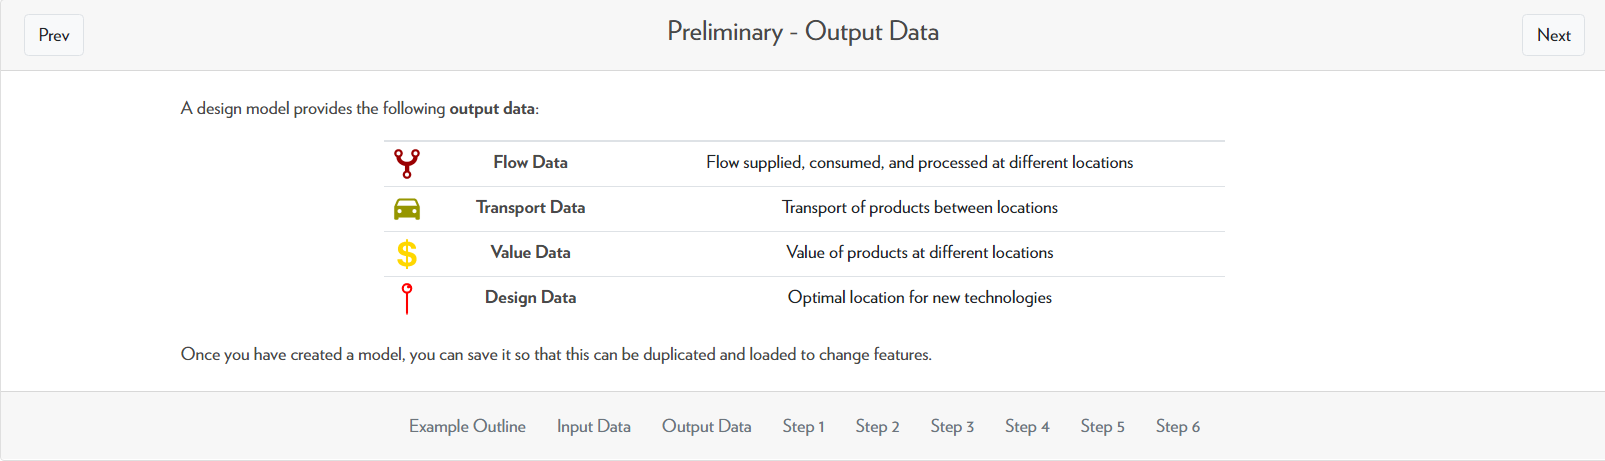
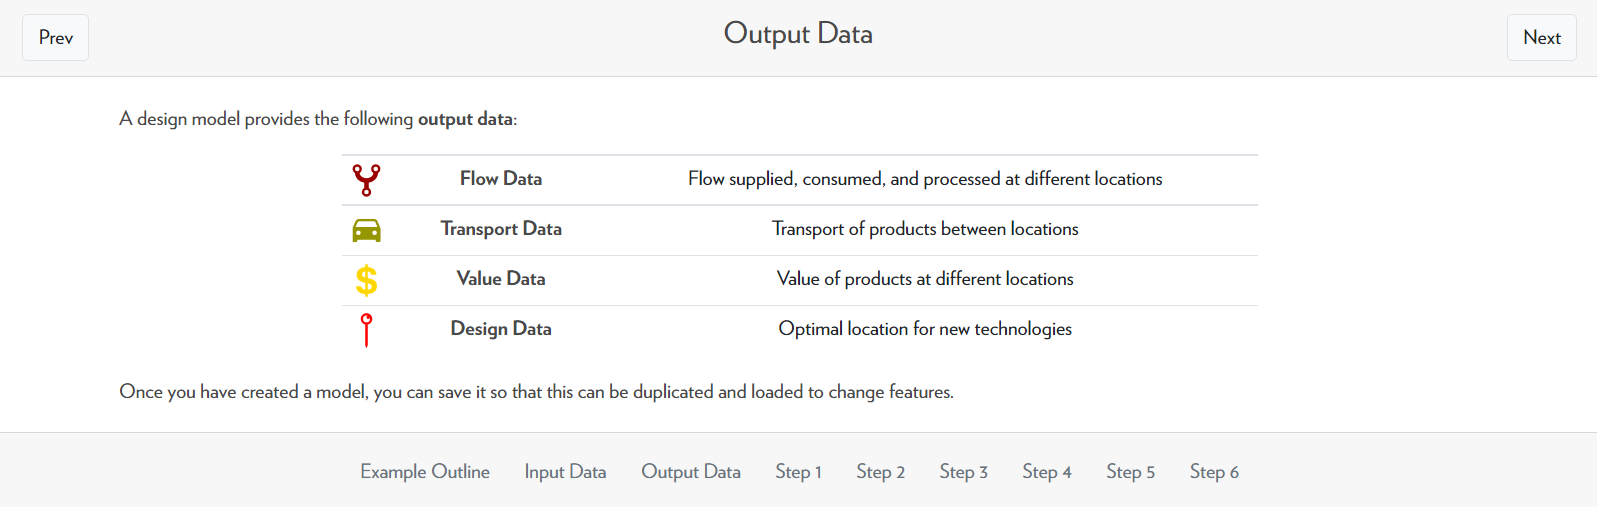
made some minor edits

diff --git a/waste_to_energy.md b/waste_to_energy.md
@@ -3,11 +3,11 @@
 <h2>Background</h2>
 
 <p>
-    Cattle manure from CAFOs contributes to air pollution and water pollution through the emission of greenhouse gases and nutrient runoff to surrounding bodies of water. Rather than simply disposing of the waste and allowing it to generate pollutants, we can process this waste into bio-electricity. 
+    Cattle manure from CAFOs contributes to air and water pollution through the emission of greenhouse gases and nutrient runoff to surrounding bodies of water. Rather than simply disposing of the waste and allowing it to generate pollutants, we can process this waste into bio-electricity. 
 </p>
 
 <p>
-    The Waste to Energy case study is a management-type model involving a system of CAFOs, technology sites, and demand nodes. The CAFOs act as the suppliers of cow manure. They can choose to either process the cow manure at a technology site or dispose of it. 
+    The Waste to Energy case study is a management-type model involving a system of CAFOs, technology sites, and demand nodes. The CAFOs act as the suppliers of cow manure. They can choose to either process the cow manure at a technology site or dispose of it at a disposal facility. 
 </p>
 
 <img src="Pictures\waste_to_energy\map.png">
@@ -15,7 +15,7 @@
 <br>
 
 <p>
-    The technology sites contain anaerobic digestion and electricity generation technologies (shown below) which can process cow manure into bio-electricity and digestate. The digestate is a waste product that can be applied to crop fields or disposed of, and the bio-electricity can be sold to and used by customers. 
+    The technology sites contain anaerobic digestion + electricity generation technologies (shown below) which can process cow manure into bio-electricity and digestate. The digestate is a waste product that can be applied to crop fields or disposed of, and the bio-electricity can be sold to and used by customers. 
 </p>
 
 <img src="Pictures\waste_to_energy\tech.png">
@@ -23,7 +23,7 @@
 <br>
 
 <p>
-    Given this system, the goal of this case study is to determine the amount of waste processed by the technology sites, the amount of bioelectricity produced, and the profitability of the system (i.e. do the earnings outweigh the losses?) at various electricity prices.
+    Given this system, the goal of this case study is to encourage CAFOs to process their waste by applying various electricity prices. 
 </p>
 
 <p>
@@ -43,17 +43,17 @@
 <img src="Pictures\waste_to_energy\low_elec.png">
 
 <p>
-    This indicates that the price of bio-electricity is so low that the CAFOs would rather dispose of the waste rather than process it. If you were to double-click on the CAFOs located on the ADAM website, you would find that the price of supplying the manure is negative for each CAFO, meaning that each CAFO is losing money by supplying waste. Additionally, the disposal facility is purchasing the manure at zero cost. This means that the CAFOs are suffering a loss by simply disposing of the waste. Knowing this, the CAFOs still decided to dispose of their waste, meaning that processing the waste would result in a greater loss.
+    These results indicate that the price of bio-electricity is so low that the CAFOs would rather dispose of the waste rather than process it. If you were to double-click on the CAFOs located on the ADAM website, you would find that the price of supplying the manure is negative for each CAFO, meaning that each CAFO is losing money by supplying waste. Additionally, the disposal facility is purchasing the manure at zero cost. This means that the CAFOs are suffering a loss by simply disposing of the waste. Knowing this, the CAFOs still decided to dispose of their waste, meaning that processing the waste would result in a greater loss.
 </p>
 
 <h2>Market Electricity Price</h2>
 
 <p>
-    The next case we will look at is the market price scenario. Market price indicates that the electricity price is set such that it reflects the actual electricity price.
+    The next case we will look at is the <b>market price</b> scenario. Market price indicates that the electricity price is set such that it reflects the actual electricity price.
 </p>
 
 <p>
-    The results, which are displayed below, show identical results to the Low Electricity Price scenario. This demonstrates that current electricity prices are still not high enough to incentivize CAFOs to process their waste. 
+    The results, which are displayed below, show identical results to the Low Electricity Price scenario: all lines are going to the disposal node. This demonstrates that current electricity prices are still not high enough to incentivize CAFOs to process their waste. 
 </p>
 
 <img src="Pictures\waste_to_energy\market_elec.png">
@@ -71,11 +71,7 @@
 </p>
 
 <p>
-    Using cow manure, Tech1 is able to generate 300,000 kWh of bioelectricity per year, and Tech2 is able to generate 467,600 kWh of bioelectricity per year. The digestate waste product is sent to a waste disposal facility.
-</p>
-
-<p>
-    Since we do not know the exact price of the bio-electricity, we cannot determine whether or not the system is profitable. We can only determine that this situation is one where losses are minimized. If you would like more detailed information regarding the results of this case study, you can make a copy of each scenario in the case study and run the model on your own. 
+    Using the cow manure, Tech1 is able to generate 300,000 kWh of bioelectricity per year, and Tech2 is able to generate 467,600 kWh of bioelectricity per year. The digestate waste product is sent to a waste disposal facility.
 </p>
 
 <h2>Conclusion</h2>

diff --git a/biogas_from_waste.md b/biogas_from_waste.md
@@ -2,7 +2,7 @@
 
 <h2>Background Information</h2> 
 
-<p>In the Biogas From Waste example, cattle farms produce manure which is then processed by technology sites. These technology sites use anaerobic digestion to produce biogas. This biogas is then purchased by customers or used by the technology site locally.</p>
+<p>In the Biogas From Waste example, cattle farms produce manure which is then processed by technology sites. These technology sites use anaerobic digestion to produce biogas. This biogas is then purchased by customers or locally used by the technology site.</p>
 
 <img src="Pictures\biogas_from_waste_ex\process.png">
 
@@ -26,7 +26,7 @@
 
 <p>The first page of the tutorial gives you information about the input data needed for ADAM. This input data consists of supply data, demand data, technology data, and transportation data.</p>
 
-<img src="Pictures\biogas_from_waste_ex\prelim.png">
+<img src="Pictures\biogas_from_waste_ex\input.png">
 
 <h5>The Supplier Data</h5>
 
@@ -40,7 +40,7 @@
 
 <h5>The Technology Data</h5>
 
-<p><b>Technologies are any construct that can transform one product into another</b>. In the context of biogas from waste, the technology being used is an anaerobic digester that uses cattle manure to produce biogas (main product) and digestate (a waste product). The technology data includes the location and type of technology installed. 
+<p><b>Technologies are any equipment, factory, or process that can transform one product into another</b>. In the context of biogas from waste, the technology being used is an anaerobic digester that uses cattle manure to produce biogas (main product) and digestate (a waste product). The technology data includes the location and type of technology installed. 
 </p>
 
 <h5>The Transportation Data</h5>
@@ -67,7 +67,7 @@
 <img src="Pictures\biogas_from_waste_ex\step2.png">
 
 <p>
-    After defining the model type and time basis, we can now add supplier data. In this example, there are three suppliers (CAFOs) which are indicated by the yellow markers on the map.
+    After defining the model type and time basis, we can now add supplier data. In this example, there are three suppliers which are indicated by the yellow markers on the map.
 </p>
 
 <p>
@@ -172,7 +172,7 @@
 
 <h3>Output Data</h3>
 
-<img src = "Pictures\biogas_from_waste_ex\prelim_output.png">
+<img src = "Pictures\biogas_from_waste_ex\output.png">
 
 <p>After we give ADAM all of the input data, ADAM will generate output data which includes information about the flow, transportation, and value data. 
 </p>

diff --git a/nutrient_pol.md b/nutrient_pol.md
@@ -14,16 +14,16 @@
     This case study applies phosphorus incentives of $0, $0.5, $2.5, and $10 per kg P to determine how much waste is processed and how much phosphorus is recovered.
 </p>
 
-<h2>Process Graph (P-Graph)</h2>
+<h2>Process Graph</h2>
 
 <p>
-    For the Nutrient Pollution Control case study, many products and technologies are interacting with each other. This simplified process graph (P-Graph) helps describe the potential products of the supply chain. 
+    For the Nutrient Pollution Control case study, many products and technologies are interacting with each other. This simplified process graph helps describe the potential products of the supply chain. 
 </p>
 
 <img src="Pictures\nutrient_pol\process_graph.png">
 
 <p>
-    In this system, there are three types of technologies: Solid-Liquid Separation (SLS), Granulation, and P Release. SLS technologies take in raw cow manure and separates it into solid and liquid components. Granulation technologies take in the solid component from SLS technology and create pellets that are used as fertilizers. P Release technologies are pseudo technologies that produce phosphorus from raw, solid, or liquid manure. The result of combining these technologies and products into a single diagram that displays all possible supply chain pathways is a P-Graph. 
+    In this system, there are three types of technologies: Solid-Liquid Separation (SLS), Granulation, and P Release. SLS technologies take in raw cow manure and separates it into solid and liquid components. Granulation technologies take in the solid component from SLS technology and create pellets that are used as fertilizers. P Release technologies are pseudo technologies that produce phosphorus from raw, solid, or liquid manure. The result of combining these technologies and products into a single diagram that displays all possible supply chain pathways is a process graph. 
 </p>
 
 <p>

diff --git a/custom_model.md b/custom_model.md
@@ -3,7 +3,7 @@
 <h2>Background information</h2>
 
 <p>
-  In a custom model, you can define the supply, demand, and technologies. For this example, we will be exploring a different type of model: <b>a design-type model</b>. Rather than simply managing technology sites that already exist, a design-type model will decide whether to build a technology at a certain site. Additionally, it will calculate the performance of the system, including the technologies that were worth building. 
+  In a custom model, you can define the supply, demand, and technology data to specify the problem you want to solve. For this example, we will be exploring a different type of model: <b>a design-type model</b>. Rather than simply managing technology sites that already exist, a design-type model will decide whether to build a technology at a certain site. Additionally, it will calculate the performance of the system, including the technologies that were worth building. 
 </p>
 
 <br>
@@ -183,7 +183,7 @@ Your browser does not support the video.
 <img src="Pictures\custom_model\results.png">
 
 <p>
-  Please try moving and editing points on your own to get familiar with ADAM! 
+  Please try going through the custom model tutorial on your own to get familiar with ADAM! 
 </p>
 
 

diff --git a/glossary.md b/glossary.md
@@ -29,7 +29,7 @@
 
 <p id="supply_chain_def"><b>Supply Chain</b> - a system of suppliers, technologies, transportation routes, etc. used to provide a product to the connsumer.</p>
 
-<p id="tech_def"><b>Technology</b> - a construct used to transform one product to another.</p>
+<p id="tech_def"><b>Technology</b> - can be any equipment, factory, or process used to transform one product into another.</p>
 
 <p id="tech_cand_def"><b>Technology Candidate</b> - a location where a technology could be built but has not been built yet; a single location can be a technology candidate for multiple technologies.</p>
 

diff --git a/dashboard.md b/dashboard.md
@@ -8,6 +8,14 @@
 
 <br>
 
+<p>
+    Some of these tutorials contain examples which can be downloaded at 
+<a href="https://github.com/zavalab/ADAM_Documentation/tree/main/Downloadable_content">this link</a>.
+</p>
+
+<br>
+<br>
+
 <h2>Contents:</h2>
 
 <h3>ADAM Basics</h3>
@@ -33,10 +41,5 @@
 <br>
 <a href="tech_database.html">Using the Technology Database - still in progress</a>
 
-<br>
-<br>
 
-<p>
-    Some of these tutorials contain examples which can be downloaded at 
-<a href="https://github.com/zavalab/ADAM_Documentation/tree/main/Downloadable_content">this link</a>.
-</p>
+

diff --git a/prod_database.md b/prod_database.md
@@ -6,6 +6,18 @@
 
 <h2>Navigating the Product Database</h2>
 
+<p>
+    Please select <b>List All Prod</b> in order to view all products in the database. Each product has a product name, a product ID, and an options bar where you can view more information about the product. 
+</p>
+
+<p>
+    
+</p>
+
+<img src="Pictures\Dashboard_tutorials\prod_database\prod_database.png">
+
+<h2>Adding Your Own Product</h2>
+
 <!--
     TODO: ADD INFO ABOUT PROD DATABASE 
 

diff --git a/dashboard_vis_tool.md b/dashboard_vis_tool.md
@@ -27,7 +27,7 @@
 </p>
 
 <p>
-    First, select <b>Go</b>  to enter the visualization tool. Then, select the <b>Upload Data File</b> button, located at the top of the page. 
+    First, select <b>Go</b> to enter the visualization tool. Then, select the <b>Upload Data File</b> button, located at the top of the page. 
 </p>
 
 <img src="Pictures\Dashboard_tutorials\visualization_tool\vis_upload.png">

diff --git a/tech_database.md b/tech_database.md
@@ -6,6 +6,8 @@
 
 <h2>Navigating the Technology Database</h2>
 
+<h2>Adding Your Own Technology</h2> 
+
 <!--
     TODO: ADD INFO ABOUT TECH DATABASE 
 
